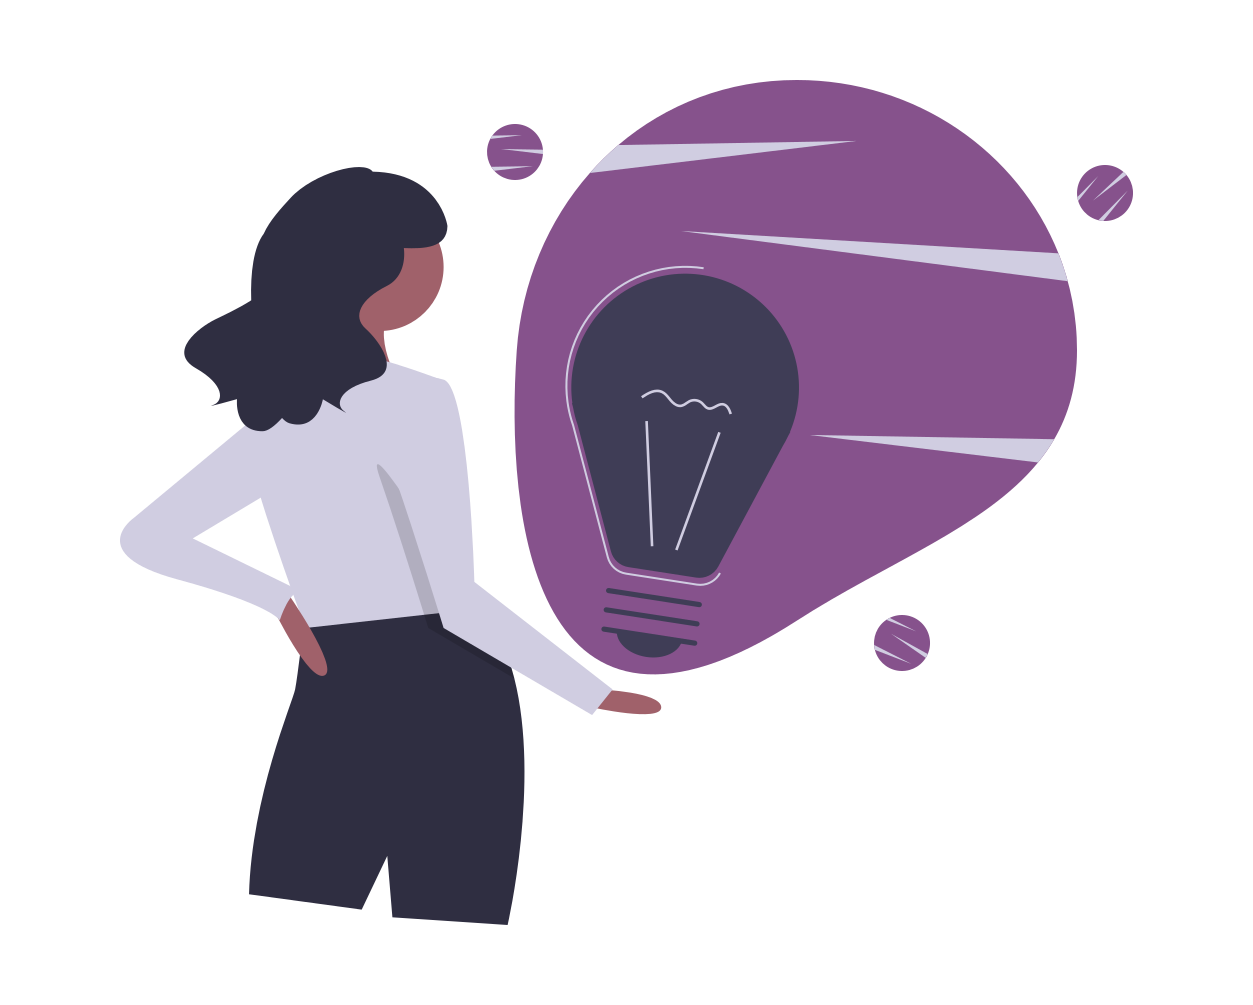
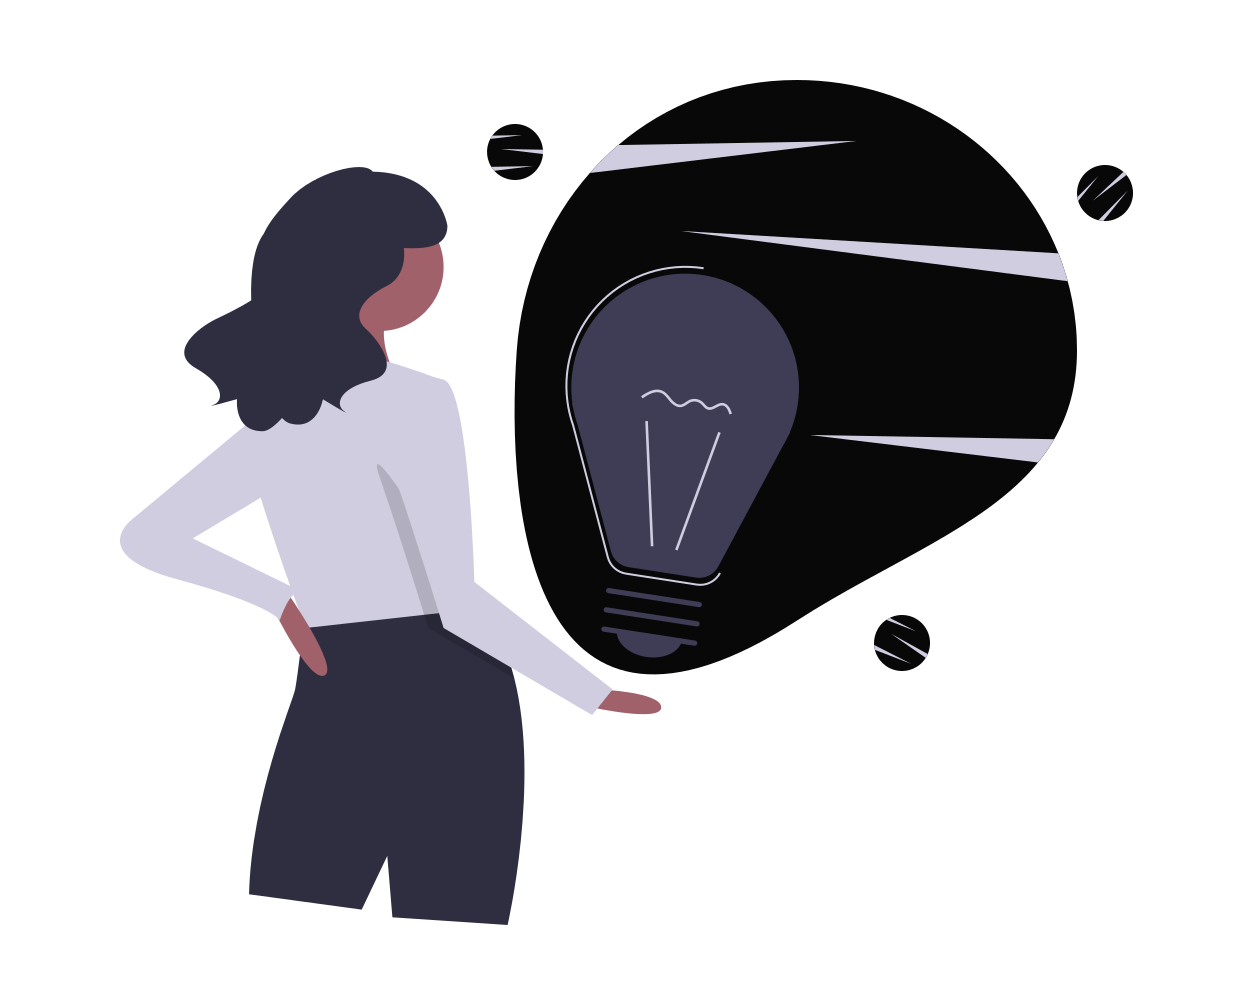
fin nosotros

Changed region(s): [[0.4046, 0.0617, 0.9026, 0.6786], [0.6848, 0.6169, 0.747, 0.6786], [0.3735, 0.1234, 0.4358, 0.1851]]

diff --git a/estilos.css b/estilos.css
@@ -27,7 +27,7 @@ body{
 }
 
 .navbar-light{
-    background-color: rgba(0, 0, 0, 0.22); 
+    background-color: rgba(0, 0, 0, 0.22);
     position: fixed;
     width: 100%;
     margin-top: 0;
@@ -110,7 +110,7 @@ body{
 .titulo__index{
     margin-top: 100px;
     text-align: center;
-    color: #642a73;
+    color: #120116;
     font-size: 50px;
     text-transform: capitalize;
     font-family: 'Montserrat', sans-serif;
@@ -153,7 +153,7 @@ body{
     text-align: center;
     font-family:'Montserrat', sans-serif;
     font-size: 40px;
-    color: #642a73;
+    color: #120116;
     text-transform: capitalize;
     padding-top: 10px;
     padding-bottom: 10px;
@@ -175,7 +175,7 @@ body{
     overflow: hidden;
     box-shadow: 0 0 6px 0 rgba(0, 0, 0, 0.5);
     height: 200px;
-    
+
 }
 
 .imagen-port img {
@@ -196,7 +196,7 @@ body{
     text-align: center;
     font-family:'Montserrat', sans-serif;
     font-size: 35px;
-    color: #642a73;
+    color: #120116;
 }
 
 .contenedorOpiniones{
@@ -207,7 +207,7 @@ body{
 
 .contenedorOpionesTodo{
    display: flex;
-   background: linear-gradient(100.37deg, #610098 38.77%, #440098 82.37%);
+   background-color: #34073f;
    align-items: center;
    flex-wrap: wrap;
    width: 400px;
@@ -246,7 +246,7 @@ body{
     text-align: center;
     color: #ffffff;
     font-weight: lighter;
-    
+
 }
 
 /* SERVICIOS INDEX */
@@ -260,7 +260,7 @@ body{
     text-align: center;
     font-family:'Montserrat', sans-serif;
     font-size: 35px;
-    color: #642a73;
+    color: #120116;
     text-transform: capitalize;
     padding-bottom: 10px;
     padding-top: 10px;
@@ -271,7 +271,7 @@ body{
     justify-content: space-evenly;
     flex-wrap: wrap;
     padding-bottom: 30px;
-    
+
 }
 
 .contenedorServicios__contenido{
@@ -339,47 +339,62 @@ body{
     justify-content: center;
 }
 
-.seccionNosotros{
-    min-height: 100vh;
-    display: grid;
-    grid-template-columns: repeat(2, 50%);
-    margin-top: 50px;
+.seccionTodoNosotros{
+    margin-top: 100px;
+    margin-bottom: 150px;
     background-color: #f2f2f2;
-    padding: 10px;
-   
 }
 
-.seccionNosotrosImg img{
+.seccionTodoNosotros h1{
+    text-align: center;
+    font-family:'Montserrat', sans-serif;
+    font-size: 40px;
+    color: #120116;
+    margin: 0;
+    padding-top: 10px;
+    padding-bottom: 10px;
+}
+
+.seccionNosotros{
+    display: grid;
+    grid-template-columns: repeat(2, 50%);
+    background-color: #120116;
+    min-height: 100vh;
+}
+
+.seccionNosotrosImg1 img{
+    width: 100%;
+    height: 100%;
+}
+
+.seccionNosotrosImg2 img{
+    width: 100%;
     height: 100%;
 }
 
 .seccionNosotrosTituloParrafo{
+    margin: 70px;
     display: flex;
     flex-direction: column;
-    justify-content: center;
-    background-color: rgb(0, 0, 0);
-    
+    justify-content: center
 }
 
-.seccionNosotrosTituloParrafo h1{
+.seccionNosotrosTituloParrafo h2{
     margin: 0px;
-    font-family: "Bebas Neue";
+    font-family: 'Bebas Neue', cursive;
     font-weight: normal;
-    font-size: 130px;
+    font-size: 100px;
     line-height: 1;
-    text-align: center;
     color: #f2f2f2;
 }
 
 .seccionNosotrosTituloParrafo p{
-    font-family: 'Montserrat', sans-serif;
-    text-align: center;
-    font-size: 15px;
-    color: #ffffff;
+    font-family:'Montserrat', sans-serif;
+    font-size: 20px;
+    color: #f2f2f2;
 }
 
 /* FOOTER */
-
 
 .ContenedorFooter{
     background-color: rgba(0, 0, 0, 0.9);
@@ -402,11 +417,11 @@ body{
     width: 100%;
     padding-bottom: 5px;
     margin-bottom: 10px;
-    background: linear-gradient(100.37deg, #610098 38.77%, #440098 82.37%);
+    background: #f2f2f2
 }
 
 .titulofooter a{
-    color: #ffffff;
+    color:#120116;
     font-size: 20px;
     font-family: 'Bebas Neue', cursive;
     padding-top: 10px;
@@ -457,6 +472,20 @@ body{
 
 /* MEDIA QUERY */
 
+
+@media (max-height: 1250px) and (max-width: 1024px){
+.seccionNosotros {
+    min-height: none;
+    display: grid;
+    grid-template-columns: repeat(1, 100%);
+}
+
+.seccionNosotrosImg2{
+    order: 2;
+}
+
+}
+
 @media (max-width: 991px){
    /* BARRA DE NAVEGACION */
 .contenedorNavegador__titulo{
@@ -469,7 +498,7 @@ body{
 .navbar-nav{
     display: flex;
     flex-direction: column;
-    background-color: rgba(0, 0, 0, 0.22); 
+    background-color: rgba(0, 0, 0, 0.22);
 }
 
 .nav-item{
@@ -591,46 +620,17 @@ body{
     font-size: 75px;
 }
 
-/* hasta aca */
-.seccionNosotros{
-    display: grid;
-    grid-template-columns: repeat(1, 100%);
-    margin-top: 50px;
-    background-color: #f2f2f2;
-    padding: 10px;
-   
+.seccionTodoNosotros h1{
+    font-size: 25px;
 }
 
-.seccionNosotrosImg img{
-    height: 100%;
-}
-
-.seccionNosotrosTituloParrafo{
-    display: flex;
-    flex-direction: column;
-    justify-content: center;
-    background-color: rgb(0, 0, 0);
-    
-}
-
-.seccionNosotrosTituloParrafo h1{
-    margin: 0px;
-    font-family: "Bebas Neue";
-    font-weight: normal;
-    font-size: 130px;
-    line-height: 1;
-    text-align: center;
-    color: #f2f2f2;
+.seccionNosotrosTituloParrafo h2{
+    font-size: 70px;
 }
 
 .seccionNosotrosTituloParrafo p{
-    font-family: 'Montserrat', sans-serif;
-    text-align: center;
     font-size: 15px;
-    color: #ffffff;
 }
-
-/* hasta aca */
 
 }
 
@@ -646,7 +646,7 @@ body{
         margin-top: 300px;
         height: 300px;
     }
-    
+
     .tituloNavegador__titulo {
         font-size: 50px;
         width: 200px;
@@ -660,7 +660,7 @@ body{
     .portada__imagen{
         width: 300px;
     }
-    
+
     .portada__imagen img{
         height: 250px;
     }
@@ -674,13 +674,17 @@ body{
     .tituloNavegador__titulo--Nosotros{
         font-size: 50px;
     }
-    
+
+    .seccionNosotrosTituloParrafo h2{
+        font-size: 50px;
+    }
+
 }
 
 @media (max-width: 320px){
     .contenedorNavegador__titulo {
         font-size: 25px;
-        
+
     }
     .navbar-toggler{
         margin-bottom: 13px;

diff --git a/nosotros.html b/nosotros.html
@@ -55,15 +55,26 @@
   </header>
 
   <section>
-    <div class="seccionNosotros">
-      <div class="seccionNosotrosImg">
-        <img src="Imagenes/seccionnosotros.png" alt="">
+    <div class="seccionTodoNosotros">
+      <h1>Un poco de Nosotros</h1> 
+      <div class="seccionNosotros">  
+        <div class="seccionNosotrosTituloParrafo">
+          <h2>GIMENA BRICCOLA</h2>
+          <p>Es la fundadora de la empresa y la encargada de hacer eso que tanto deseas.</p>
+        </div>
+        <div class="seccionNosotrosImg1">
+          <img src="Imagenes/seccionnosotros.png" alt="">        
+        </div>
+
+        <div class="seccionNosotrosImg2">
+          <img src="Imagenes/seccionnosotrosdos.png" alt="">        
+        </div>
+        <div class="seccionNosotrosTituloParrafo">
+          <h2>IVAN <br> RUIZ</h2>
+          <p>Es el compañero perfecto para llevar a cabo tus ideas.</p>
+        </div>  
       </div>
-      <div class="seccionNosotrosTituloParrafo">
-        <h1>GIMENA BRICCOLA</h1>
-        <p>Lorem ipsum dolor, sit amet consectetur adipisicing elit. Esse deleniti eligendi cum, natus incidunt sunt quo facilis laudantium adipisci eius eveniet iusto ducimus quia placeat voluptates non, dolorum aliquam facere?</p>
-    </div>
-    </div>
+    </div>  
   </section>
 
 
@@ -90,7 +101,7 @@
         </div>
 
         <div class="ContactosFooter">
-            San Nicolas 2155 - Rosario - Argentia - Tel (341) 365-2506/ (11) 58709761
+            San Nicolas 2155 - Rosario - Argentina - Tel (341) 365-2506/ (11) 58709761
         </div>
       
         <div class="DerechosFooter">

diff --git a/index.html b/index.html
@@ -180,7 +180,7 @@
         </div>
 
         <div class="ContactosFooter">
-            San Nicolas 2155 - Rosario - Argentia - Tel (341) 365-2506/ (11) 58709761
+            San Nicolas 2155 - Rosario - Argentina - Tel (341) 365-2506/ (11) 58709761
         </div>
       
         <div class="DerechosFooter">
